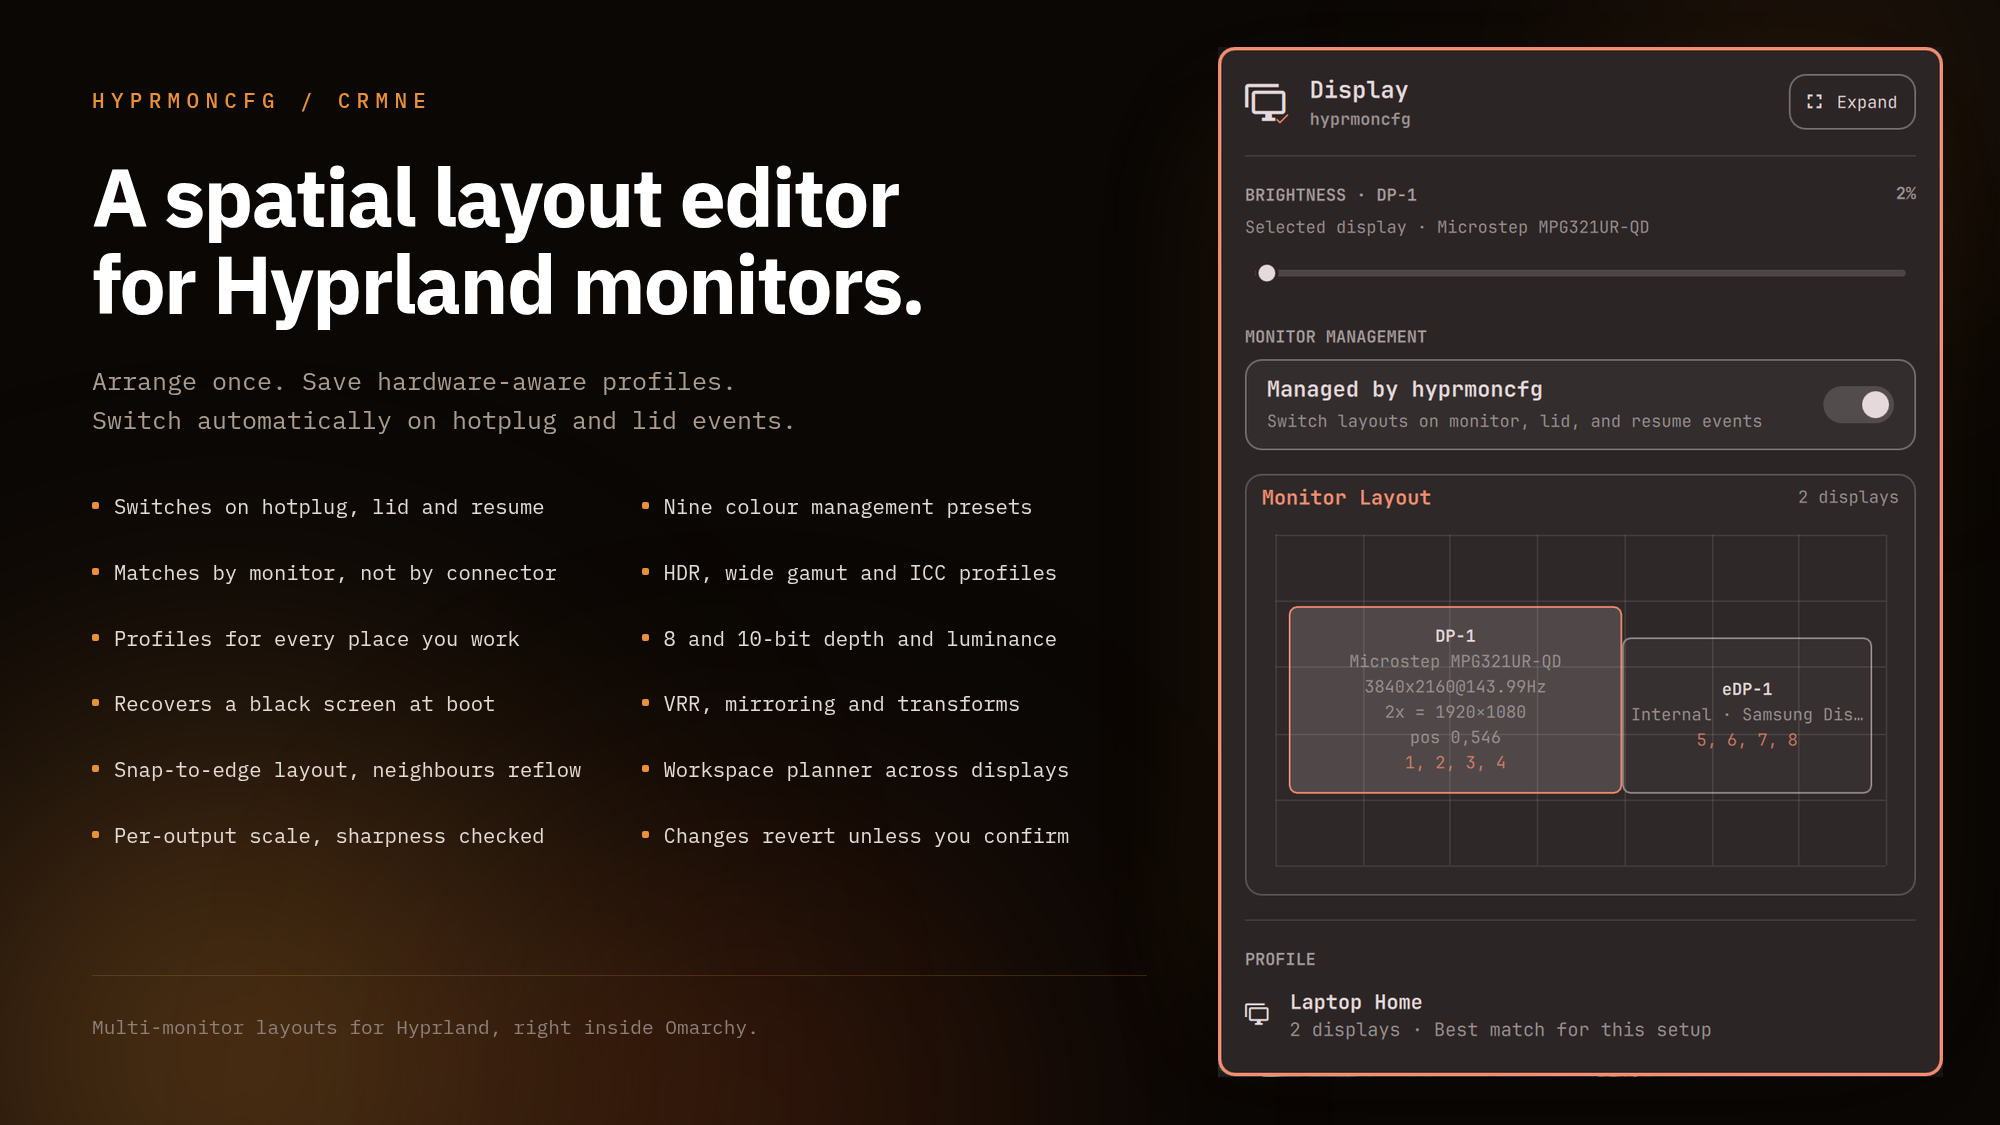
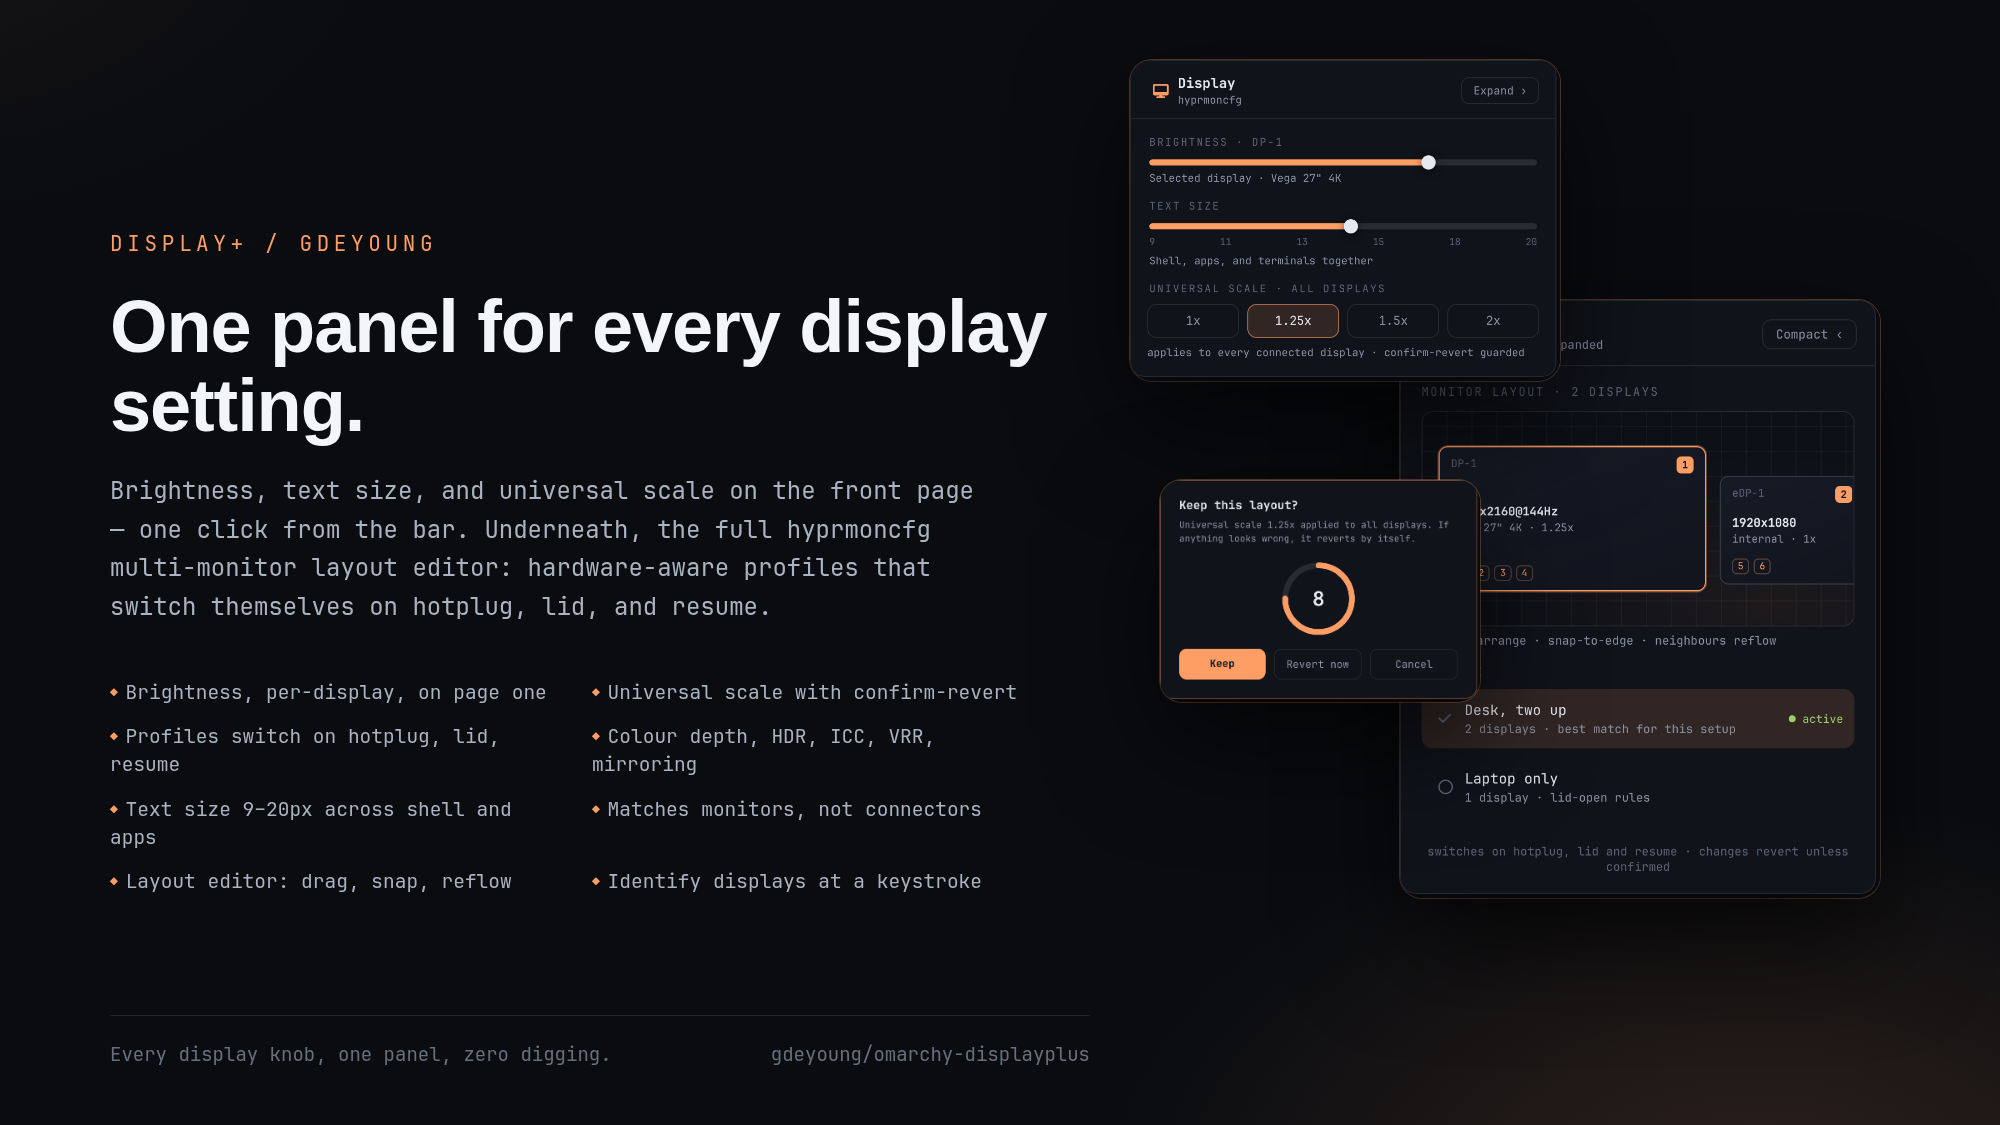
Synthetic marketing assets: house-style poster + synthetic panels (no real monitor models)

diff --git a/docs/panels.html b/docs/panels.html
@@ -1,0 +1,273 @@
+<!DOCTYPE html>
+<html lang="en">
+<head>
+<meta charset="UTF-8">
+<title>Display+ — synthetic panel mockups</title>
+<style>
+  /* Display+ panel mockups — Omarchy dark shell theme, accent orange.
+     Monitor models, connector names, and profile names are synthetic. */
+  :root {
+    --bg: #0b0d12;
+    --panel: #10131a;
+    --panel2: #161a24;
+    --border: rgba(255,255,255,.09);
+    --ink: #e6e9f0;
+    --muted: #8b93a7;
+    --dim: #5c6478;
+    --accent: #ff9e64;
+    --accent-dim: rgba(255,158,100,.14);
+    --green: #9ece6a;
+  }
+  * { box-sizing: border-box; margin: 0; }
+  body {
+    background: var(--bg);
+    font-family: 'JetBrains Mono', 'JetBrainsMono Nerd Font', ui-monospace, monospace;
+    color: var(--ink);
+    padding: 28px;
+    display: flex; gap: 24px; align-items: flex-start; flex-wrap: wrap;
+  }
+  .caption { width: 100%; text-align: left; color: var(--dim); font-size: 11px; padding: 4px 2px; }
+
+  .panel {
+    width: 420px; background: var(--panel);
+    border: 1px solid var(--border); border-radius: 14px;
+    overflow: hidden; box-shadow: 0 24px 60px rgba(0,0,0,.5);
+  }
+  .phead { display: flex; align-items: center; gap: 10px; padding: 13px 16px 11px; border-bottom: 1px solid var(--border); }
+  .phead .glyph { color: var(--accent); font-size: 15px; width: 20px; text-align: center; }
+  .phead .t { flex: 1; }
+  .phead .t .name { font-size: 13.5px; font-weight: 700; }
+  .phead .t .sub { font-size: 10.5px; color: var(--muted); margin-top: 1px; }
+  .expand {
+    font-size: 11px; color: var(--muted); border: 1px solid var(--border);
+    border-radius: 8px; padding: 5px 11px;
+  }
+  .body { padding: 14px 16px 16px; }
+  .sec {
+    font-size: 10.5px; color: var(--dim); letter-spacing: .14em;
+    margin: 14px 2px 8px;
+  }
+  .sec:first-child { margin-top: 2px; }
+  .ctrl { margin: 10px 2px 4px; }
+  .ctrl .lab {
+    display: flex; justify-content: space-between; font-size: 11.5px;
+    color: var(--ink); margin-bottom: 7px;
+  }
+  .ctrl .lab .conn { color: var(--dim); }
+  .slider { position: relative; height: 6px; border-radius: 3px; background: rgba(255,255,255,.10); }
+  .slider i {
+    position: absolute; left: 0; top: 0; bottom: 0; border-radius: 3px;
+    background: var(--accent); display: block;
+  }
+  .slider .knob {
+    position: absolute; top: -4px; width: 14px; height: 14px; border-radius: 50%;
+    background: #e6e9f0; box-shadow: 0 2px 8px rgba(0,0,0,.5);
+  }
+  .stops { display: flex; justify-content: space-between; font-size: 9.5px; color: var(--dim); margin-top: 6px; }
+  .hint { font-size: 10.5px; color: var(--muted); margin-top: 6px; }
+  .scalebtns { display: flex; gap: 8px; margin-top: 4px; }
+  .sbtn {
+    flex: 1; text-align: center; font-size: 12px; color: var(--muted);
+    border: 1px solid var(--border); border-radius: 9px; padding: 8px 0;
+  }
+  .sbtn.on { color: var(--ink); border-color: rgba(255,158,100,.55); background: var(--accent-dim); }
+  .note { font-size: 10.5px; color: var(--muted); margin-top: 8px; }
+
+  /* layout editor canvas */
+  .canvas {
+    position: relative; height: 190px; margin: 10px 2px 6px;
+    background:
+      radial-gradient(340px 200px at 80% 90%, rgba(255,158,100,.07), transparent 70%),
+      repeating-linear-gradient(0deg, transparent 0 21px, rgba(255,255,255,.035) 21px 22px),
+      repeating-linear-gradient(90deg, transparent 0 21px, rgba(255,255,255,.035) 21px 22px),
+      #0d1017;
+    border: 1px solid var(--border); border-radius: 10px; overflow: hidden;
+  }
+  .mon {
+    position: absolute; border-radius: 8px;
+    background: linear-gradient(160deg, #171b26, #12151e);
+    border: 1px solid rgba(255,255,255,.14);
+    display: flex; flex-direction: column; justify-content: space-between;
+    padding: 8px 10px;
+  }
+  .mon.sel { border-color: var(--accent); box-shadow: 0 0 0 1px rgba(255,158,100,.35); }
+  .mon .mtop { display: flex; justify-content: space-between; font-size: 9.5px; color: var(--dim); }
+  .mon .mtop .badge {
+    width: 15px; height: 15px; border-radius: 4px; font-size: 9px; font-weight: 700;
+    display: flex; align-items: center; justify-content: center; color: #10131a;
+    background: var(--accent);
+  }
+  .mon .mmid { font-size: 10.5px; color: var(--ink); font-weight: 600; white-space: nowrap; }
+  .mon .mmid .model { color: var(--muted); font-weight: 400; font-size: 9.5px; margin-top: 1px; }
+  .mon .mbot { display: flex; gap: 4px; }
+  .mon .mbot span {
+    font-size: 8.5px; color: var(--accent); border: 1px solid rgba(255,158,100,.3);
+    border-radius: 4px; padding: 0.5px 4px;
+  }
+
+  /* profile row */
+  .prow {
+    display: flex; align-items: center; gap: 10px; padding: 10px 10px;
+    border-radius: 10px; margin: 8px 2px;
+  }
+  .prow.cur { background: var(--accent-dim); }
+  .prow .glyph { color: var(--dim); font-size: 14px; width: 18px; text-align: center; }
+  .prow .txt { flex: 1; }
+  .prow .name { font-size: 12.5px; color: var(--ink); }
+  .prow .sub { font-size: 10.5px; color: var(--muted); margin-top: 2px; }
+  .prow .state { font-size: 10px; color: var(--green); }
+
+  /* confirm-revert dialog */
+  .guard {
+    width: 380px; background: var(--panel); border: 1px solid rgba(255,158,100,.4);
+    border-radius: 14px; box-shadow: 0 30px 80px rgba(0,0,0,.6); padding: 20px 22px 22px;
+  }
+  .guard .q { font-size: 14px; font-weight: 700; }
+  .guard .desc { font-size: 11px; color: var(--muted); margin-top: 6px; line-height: 1.5; }
+  .ring { position: relative; width: 92px; height: 92px; margin: 18px auto 6px; }
+  .ring .num {
+    position: absolute; inset: 0; display: flex; align-items: center; justify-content: center;
+    font-size: 24px; font-weight: 700; color: var(--ink);
+  }
+  .gbtns { display: flex; gap: 10px; margin-top: 14px; }
+  .gbtn {
+    flex: 1; text-align: center; font-size: 12.5px; border-radius: 9px; padding: 9px 0;
+  }
+  .gbtn.keep { color: #10131a; background: var(--accent); font-weight: 700; }
+  .gbtn.revert { color: var(--muted); border: 1px solid var(--border); }
+</style>
+</head>
+<body>
+
+<!-- ============ PANEL 1: FRONT PAGE ============ -->
+<div>
+<div class="caption">1 · Front page (collapsed)</div>
+<div class="panel" id="panel-front">
+  <div class="phead">
+    <span class="glyph"></span>
+    <div class="t">
+      <div class="name">Display</div>
+      <div class="sub">hyprmoncfg</div>
+    </div>
+    <span class="expand">Expand ›</span>
+  </div>
+  <div class="body">
+    <div class="sec">BRIGHTNESS · DP-1</div>
+    <div class="ctrl">
+      <div class="slider" style="width:100%;"><i style="width:72%;"></i><span class="knob" style="left:calc(72% - 7px);"></span></div>
+      <div class="hint">Selected display · Vega 27" 4K</div>
+    </div>
+
+    <div class="sec">TEXT SIZE</div>
+    <div class="ctrl">
+      <div class="slider"><i style="width:52%;"></i><span class="knob" style="left:calc(52% - 7px);"></span></div>
+      <div class="stops"><span>9</span><span>11</span><span>13</span><span>15</span><span>18</span><span>20</span></div>
+      <div class="hint">Shell, apps, and terminals together</div>
+    </div>
+
+    <div class="sec">UNIVERSAL SCALE · ALL DISPLAYS</div>
+    <div class="scalebtns">
+      <div class="sbtn">1x</div>
+      <div class="sbtn on">1.25x</div>
+      <div class="sbtn">1.5x</div>
+      <div class="sbtn">2x</div>
+    </div>
+    <div class="note">applies to every connected display · confirm-revert guarded</div>
+  </div>
+</div>
+</div>
+
+<!-- ============ PANEL 2: LAYOUT EDITOR ============ -->
+<div>
+<div class="caption">2 · Expanded layout editor</div>
+<div class="panel" id="panel-editor">
+  <div class="phead">
+    <span class="glyph"></span>
+    <div class="t">
+      <div class="name">Display</div>
+      <div class="sub">hyprmoncfg · expanded</div>
+    </div>
+    <span class="expand">Compact ‹</span>
+  </div>
+  <div class="body">
+    <div class="sec">MONITOR LAYOUT · 2 DISPLAYS</div>
+    <div class="canvas">
+      <div class="mon sel" style="left:14px; top:30px; width:236px; height:128px;">
+        <div class="mtop"><span>DP-1</span><span class="badge">1</span></div>
+        <div class="mmid">3840x2160@144Hz<div class="model">Vega 27" 4K · 1.25x</div></div>
+        <div class="mbot"><span>1</span><span>2</span><span>3</span><span>4</span></div>
+      </div>
+      <div class="mon" style="left:262px; top:56px; width:128px; height:96px;">
+        <div class="mtop"><span>eDP-1</span><span class="badge">2</span></div>
+        <div class="mmid">1920x1080<div class="model">internal · 1x</div></div>
+        <div class="mbot"><span>5</span><span>6</span></div>
+      </div>
+    </div>
+    <div class="hint">drag to arrange · snap-to-edge · neighbours reflow</div>
+
+    <div class="sec" style="margin-top:14px;">PROFILE</div>
+    <div class="prow cur">
+      <span class="glyph"></span>
+      <div class="txt">
+        <div class="name">Desk, two up</div>
+        <div class="sub">2 displays · best match for this setup</div>
+      </div>
+      <span class="state">● active</span>
+    </div>
+    <div class="prow">
+      <span class="glyph"></span>
+      <div class="txt">
+        <div class="name">Laptop only</div>
+        <div class="sub">1 display · lid-open rules</div>
+      </div>
+    </div>
+  </div>
+  <div style="padding:0 16px 16px;">
+    <div class="note" style="margin:0; text-align:center; color:var(--dim);">switches on hotplug, lid and resume · changes revert unless confirmed</div>
+  </div>
+</div>
+</div>
+
+<!-- ============ PANEL 3: CONFIRM-REVERT GUARD ============ -->
+<div>
+<div class="caption">3 · Universal scale, guarded</div>
+<div class="guard" id="panel-guard">
+  <div class="q">Keep this layout?</div>
+  <div class="desc">Universal scale 1.25x applied to all displays. If anything
+  looks wrong, it reverts by itself.</div>
+  <div class="ring">
+    <svg width="92" height="92" viewBox="0 0 92 92">
+      <circle cx="46" cy="46" r="40" fill="none" stroke="rgba(255,255,255,.10)" stroke-width="7"/>
+      <circle cx="46" cy="46" r="40" fill="none" stroke="#ff9e64" stroke-width="7"
+        stroke-linecap="round" stroke-dasharray="251.3" stroke-dashoffset="62.8"
+        transform="rotate(-90 46 46)"/>
+    </svg>
+    <div class="num">8</div>
+  </div>
+  <div class="gbtns">
+    <div class="gbtn keep">Keep</div>
+    <div class="gbtn revert">Revert now</div>
+    <div class="gbtn revert">Cancel</div>
+  </div>
+</div>
+</div>
+
+<script>
+  // Export mode
+  const params = new URLSearchParams(location.search);
+  const only = params.get('only');
+  if (only) {
+    document.body.style.padding = '0';
+    document.querySelectorAll('.caption').forEach(e => e.remove());
+    document.querySelectorAll('body > div').forEach(w => {
+      if (!w.querySelector('#' + only)) w.remove();
+    });
+    document.body.style.display = 'block';
+  }
+  // Nerd Font glyphs
+  const G = { monitor: "\uF108", active: "\uF00C", inactive: "\uF10C" };
+  document.querySelectorAll('.phead .glyph:empty').forEach((el, i) => el.textContent = G.monitor);
+  document.querySelectorAll('.prow .glyph:empty').forEach((el, i) => el.textContent = i === 0 ? G.active : G.inactive);
+</script>
+</body>
+</html>

diff --git a/docs/poster.html b/docs/poster.html
@@ -1,0 +1,89 @@
+<!DOCTYPE html>
+<html lang="en">
+<head>
+<meta charset="UTF-8">
+<title>Display+ — marketplace preview</title>
+<style>
+  /* Display+ house style (its own orange), synthetic monitors. */
+  :root {
+    --bg: #0a0c10;
+    --ink: #f2f5fa;
+    --body: #aab3c2;
+    --dim: #67707f;
+    --accent: #ff9e64;
+    --accent-soft: rgba(255,158,100,.13);
+  }
+  * { box-sizing: border-box; margin: 0; }
+  html, body { width: 2000px; height: 1125px; overflow: hidden; }
+  body {
+    background:
+      radial-gradient(1100px 700px at 88% 108%, rgba(255,158,100,.15), transparent 60%),
+      radial-gradient(900px 600px at -5% -10%, rgba(255,158,100,.06), transparent 55%),
+      var(--bg);
+    font-family: 'JetBrains Mono', 'JetBrainsMono Nerd Font', ui-monospace, monospace;
+    color: var(--ink);
+    display: flex;
+    align-items: center;
+    padding: 0 110px;
+  }
+  .left { width: 980px; flex: none; margin-right: 40px; }
+  .crumb { font-size: 21px; color: var(--accent); letter-spacing: .22em; }
+  h1 {
+    font-family: 'Inter', 'Segoe UI', system-ui, sans-serif;
+    font-size: 74px; font-weight: 750; line-height: 1.08;
+    letter-spacing: -0.015em; margin: 30px 0 26px;
+  }
+  .sub { font-size: 24px; color: var(--body); line-height: 1.6; max-width: 880px; }
+  .features {
+    display: grid; grid-template-columns: 1fr 1fr;
+    grid-auto-flow: column; grid-template-rows: repeat(4, auto);
+    gap: 16px 44px; margin-top: 52px; max-width: 920px;
+  }
+  .features div { font-size: 19.5px; color: var(--body); line-height: 1.45; }
+  .features div::before { content: "\25C6  "; color: var(--accent); font-size: 13px; vertical-align: 2px; }
+  .foot {
+    position: absolute; left: 110px; bottom: 58px; right: 910px;
+    border-top: 1px solid rgba(255,255,255,.10); padding-top: 26px;
+    font-size: 19px; color: var(--dim); display: flex; justify-content: space-between;
+  }
+  .right { position: relative; flex: none; width: 760px; height: 100%; }
+  .panelshot {
+    position: absolute; border-radius: 22px;
+    box-shadow: 0 40px 110px rgba(0,0,0,.65), 0 0 0 1px rgba(255,158,100,.32);
+  }
+  /* front 847x633 (0.747), editor 847x1055 (1.246), guard 767x533 (0.695) */
+  #p1 { width: 430px; left: 0;   top: 60px;  z-index: 3; }  /* front page 430x321 */
+  #p2 { width: 480px; left: 270px; top: 300px; z-index: 2; } /* layout editor 480x598 */
+  #p3 { width: 320px; left: 30px;  top: 480px; z-index: 5; } /* confirm-revert 320x222 */
+</style>
+</head>
+<body>
+  <div class="left">
+    <div class="crumb">DISPLAY+ / GDEYOUNG</div>
+    <h1>One panel for every display setting.</h1>
+    <div class="sub">Brightness, text size, and universal scale on the front page —
+    one click from the bar. Underneath, the full hyprmoncfg multi-monitor layout
+    editor: hardware-aware profiles that switch themselves on hotplug, lid, and
+    resume.</div>
+    <div class="features">
+      <div>Brightness, per-display, on page one</div>
+      <div>Profiles switch on hotplug, lid, resume</div>
+      <div>Text size 9–20px across shell and apps</div>
+      <div>Layout editor: drag, snap, reflow</div>
+      <div>Universal scale with confirm-revert</div>
+      <div>Colour depth, HDR, ICC, VRR, mirroring</div>
+      <div>Matches monitors, not connectors</div>
+      <div>Identify displays at a keystroke</div>
+    </div>
+  </div>
+  <div class="right">
+    <img class="panelshot" id="p1" src="/tmp/displayplus_shots/panel-front.png">
+    <img class="panelshot" id="p2" src="/tmp/displayplus_shots/panel-editor.png">
+    <img class="panelshot" id="p3" src="/tmp/displayplus_shots/panel-guard.png">
+  </div>
+  <div class="foot">
+    <span>Every display knob, one panel, zero digging.</span>
+    <span>gdeyoung/omarchy-displayplus</span>
+  </div>
+</body>
+</html>

diff --git a/README.md b/README.md
@@ -1,10 +1,17 @@
 # Display+ for Omarchy
 
+![Display+ — one panel for every display setting](preview.png)
+
 One panel for every display setting. Brightness, text size, and universal
 scale sit on the front page — one click from the bar — with hyprmoncfg's full
 multi-monitor layout editor underneath.
 
-![Display+ panel](docs/panel.png)
+![Display+ front page](docs/panel-front.png)
+
+Synthetic mockups — no real hardware identifiers. The expanded layout editor and confirm-revert guard:
+
+![Expanded layout editor](docs/panel-editor.png)
+![Universal scale, guarded](docs/panel-guard.png)
 
 ## The problem
 
@@ -34,7 +41,7 @@ Display+ collapses the two into one pane:
 <details>
 <summary>See the expanded editor</summary>
 
-![Expanded monitor layout editor](screenshots/layout.png)
+![Expanded monitor layout editor](docs/panel-editor.png)
 
 </details>
 
